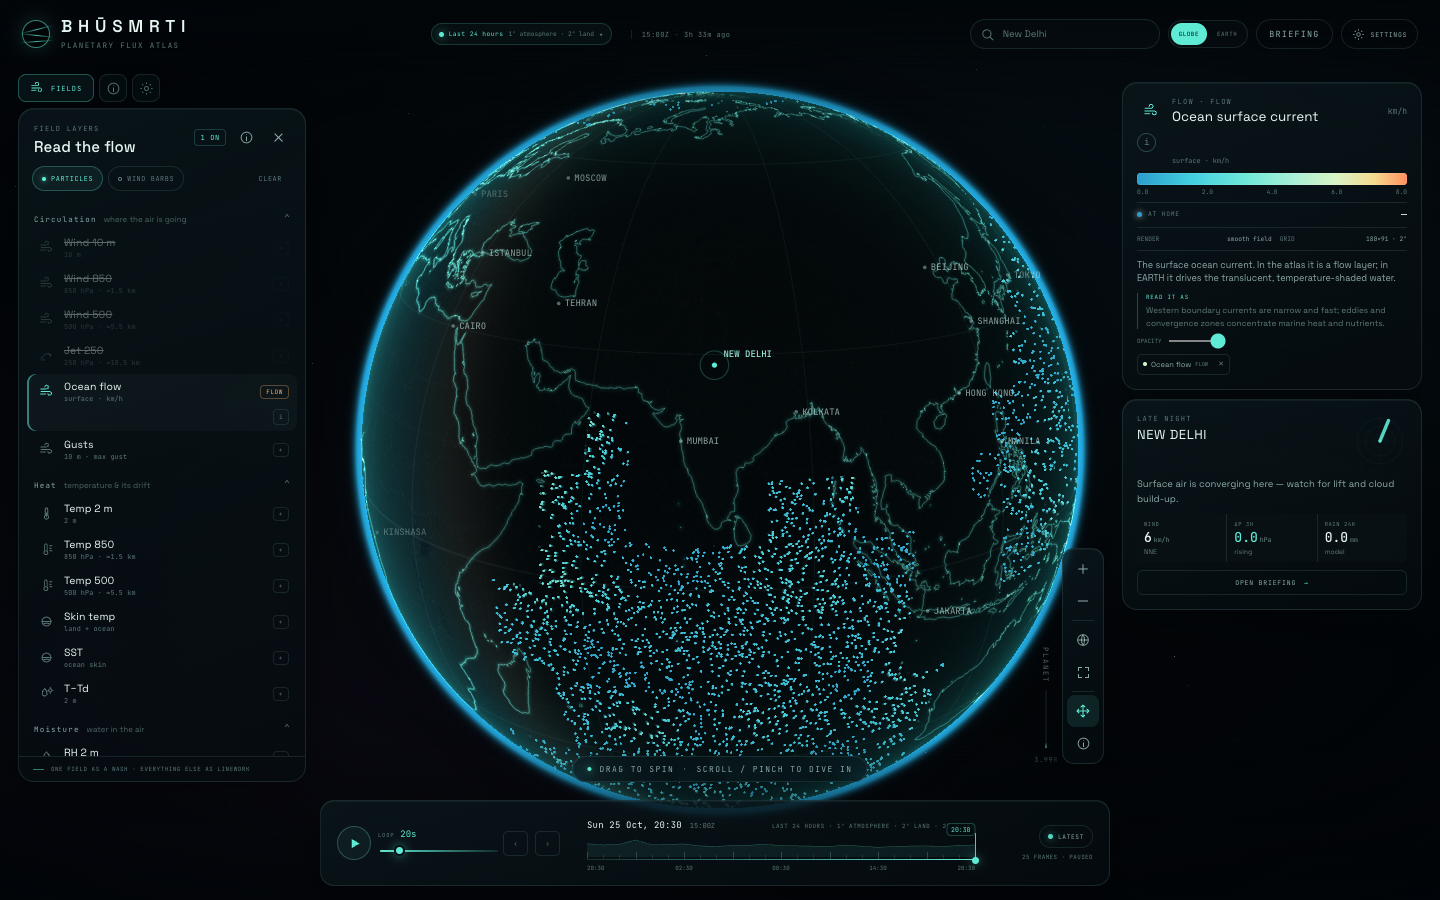
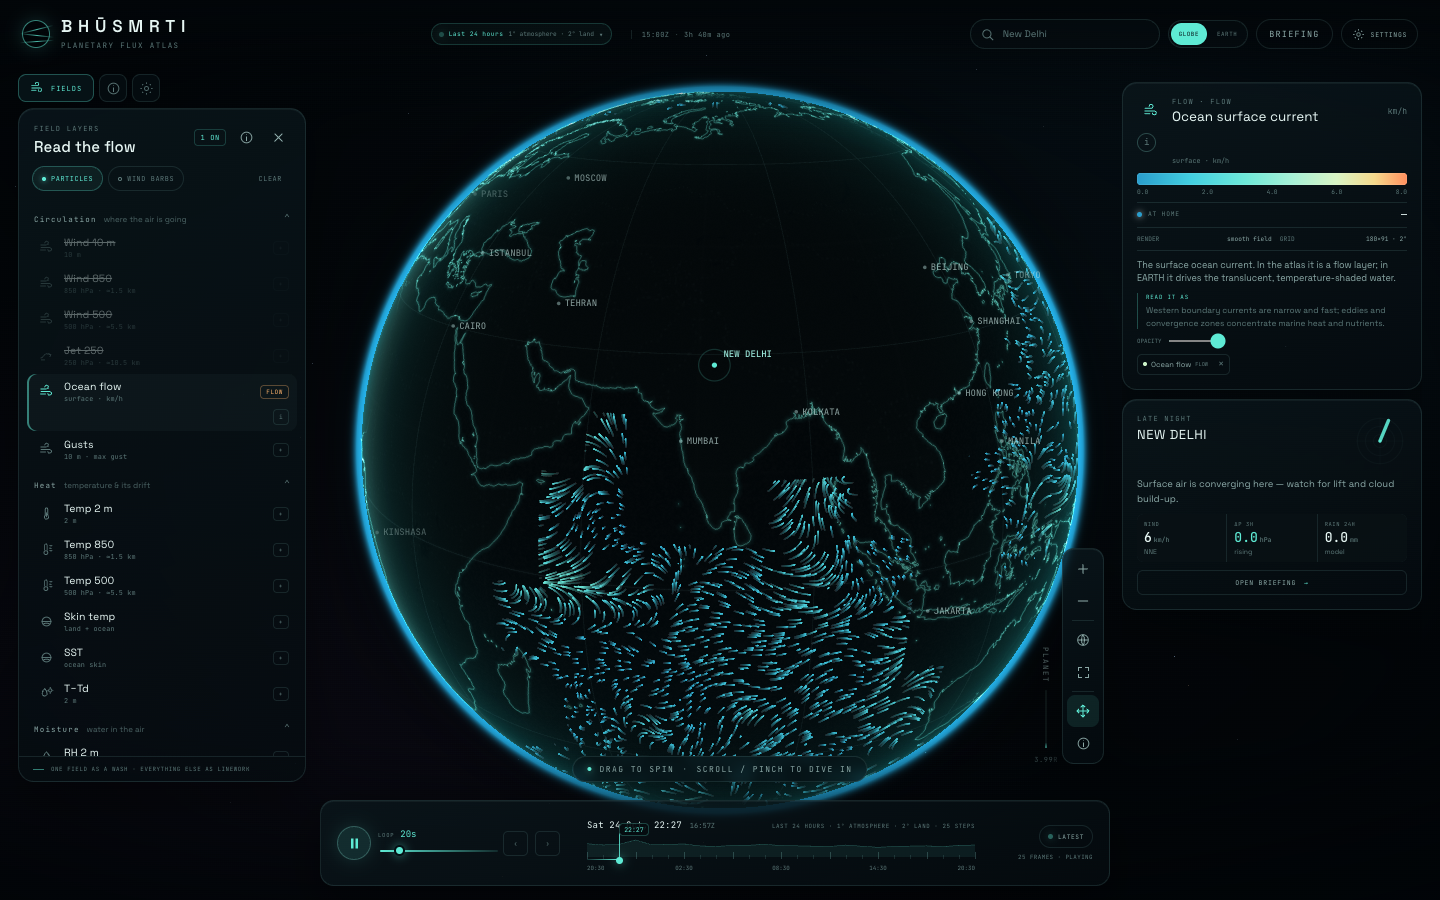
Bhūsmṛti: ocean-current streamlines match wind trails; trails freeze when timeline paused

diff --git a/src/globe/trails.ts b/src/globe/trails.ts
@@ -34,6 +34,7 @@ export class WindTrails {
   private density = 1;
   private visible = true;
   private gain = 1;
+  private style = { speed: 1, density: 1, fade: FADE, life: 1 };
   private mobile = false;
   private cleared = true;
 
@@ -60,6 +61,16 @@ export class WindTrails {
 
   setGain(g: number) { this.gain = Math.max(0.5, Math.min(3, g)); }
 
+  setStyle(s: { speed?: number; density?: number; fade?: number; life?: number }) {
+    this.style = {
+      speed: Math.max(0.5, Math.min(12, s.speed ?? 1)),
+      density: Math.max(0.2, Math.min(2, s.density ?? 1)),
+      fade: Math.max(0.006, Math.min(0.08, s.fade ?? FADE)),
+      life: Math.max(0.5, Math.min(4, s.life ?? 1)),
+    };
+    this.setDensity(this.density);
+  }
+
   setVisible(v: boolean) {
     this.visible = v;
     if (!v) this.clear();
@@ -67,7 +78,7 @@ export class WindTrails {
 
   setDensity(d: number) {
     this.density = d;
-    const n = Math.round((this.mobile ? 1300 : 3200) * d);
+    const n = Math.round((this.mobile ? 1300 : 3200) * d * this.style.density);
     this.resizeParticles(Math.max(700, Math.min(7200, n)));
   }
 
@@ -106,7 +117,7 @@ export class WindTrails {
       if (this.sample(x, y)) {
         p.x = x; p.y = y;
         p.age = immediate ? Math.random() * 4 : 0;
-        p.life = 8 + Math.random() * 12;
+        p.life = (8 + Math.random() * 12) * this.style.life;
         return;
       }
     }
@@ -131,7 +142,7 @@ export class WindTrails {
 
     // fade the existing trail
     ctx.globalCompositeOperation = 'destination-out';
-    ctx.fillStyle = `rgba(0,0,0,${FADE})`;
+    ctx.fillStyle = `rgba(0,0,0,${this.style.fade})`;
     ctx.fillRect(0, 0, this.width, this.height);
     ctx.globalCompositeOperation = 'source-over';
 
@@ -144,8 +155,8 @@ export class WindTrails {
         this.spawn(p);
         continue;
       }
-      const nx = p.x + s.vx * d * this.gain;
-      const ny = p.y + s.vy * d * this.gain;
+      const nx = p.x + s.vx * d * this.style.speed;
+      const ny = p.y + s.vy * d * this.style.speed;
       if (nx < -40 || nx > this.width + 40 || ny < -40 || ny > this.height + 40) {
         this.spawn(p);
         continue;

diff --git a/src/globe/GlobeEngine.ts b/src/globe/GlobeEngine.ts
@@ -25,6 +25,7 @@ export type EngineState = {
   flowLayer: string | null;
   flowColor: FlowColor;
   visualMode: 'globe' | 'earth';
+  playing: boolean;
   particles: boolean;
   density: number;
   barbs: boolean;
@@ -632,6 +633,12 @@ export class GlobeEngine {
       color, colorRange, palette, speedRange: def.range,
       grid: { nx: g.nx, ny: g.ny, lonMin: g.lonMin, latMin: g.latMin, step: g.step },
     };
+    this.trails.setStyle({
+      speed: def.trailSpeed ?? 1,
+      density: def.trailDensity ?? 1,
+      fade: def.trailFade ?? 0.034,
+      life: def.trailLife ?? 1,
+    });
     this.trails.setPalette(palette);
     this.trails.setGain(def.trailGain ?? 1);
     this.gusts.setPalette(palette);
@@ -1045,7 +1052,7 @@ export class GlobeEngine {
       this.water.update(this.data, this.frame);
       this.gusts.update(this.frame);
     }
-    if (!this.trailsPaused && !this.rangeLoading && this.state?.visualMode !== 'earth') this.trails.update(dt);
+    if (this.state?.playing && !this.trailsPaused && !this.rangeLoading && this.state?.visualMode !== 'earth') this.trails.update(dt);
 
     if (now - this.overlayAt > 70 || this.lastOverlayVersion !== this.camVersion) {
       this.overlayAt = now;

diff --git a/src/data/catalog.ts b/src/data/catalog.ts
@@ -127,7 +127,8 @@ export const LAYERS: LayerDef[] = [
   {
     id: 'ocean_current', label: 'Ocean surface current', short: 'Ocean flow', sub: 'surface · km/h', group: 'flow', kind: 'flow',
     unit: 'km/h', decimals: 1, palette: P.current, range: [0, 8], field: 'ocean_current_velocity', dirField: 'ocean_current_direction',
-    defaultOpacity: 1, trailGain: 1.6, pattern: 0, glyph: 'wind',
+    defaultOpacity: 1, trailGain: 1.25, trailSpeed: 5.5, trailDensity: 0.55, trailFade: 0.018, trailLife: 1.8,
+    pattern: 0, glyph: 'wind',
     description: 'The surface ocean current. In the atlas it is a flow layer; in EARTH it drives the translucent, temperature-shaded water.',
     read: 'Western boundary currents are narrow and fast; eddies and convergence zones concentrate marine heat and nutrients.',
   },

diff --git a/src/data/types.ts b/src/data/types.ts
@@ -58,6 +58,10 @@ export interface LayerDef {
   lineOnly?: boolean;
   defaultOpacity: number;
   trailGain?: number;
+  trailSpeed?: number;
+  trailDensity?: number;
+  trailFade?: number;
+  trailLife?: number;
   description: string;
   read: string;
   glyph: GlyphId;
